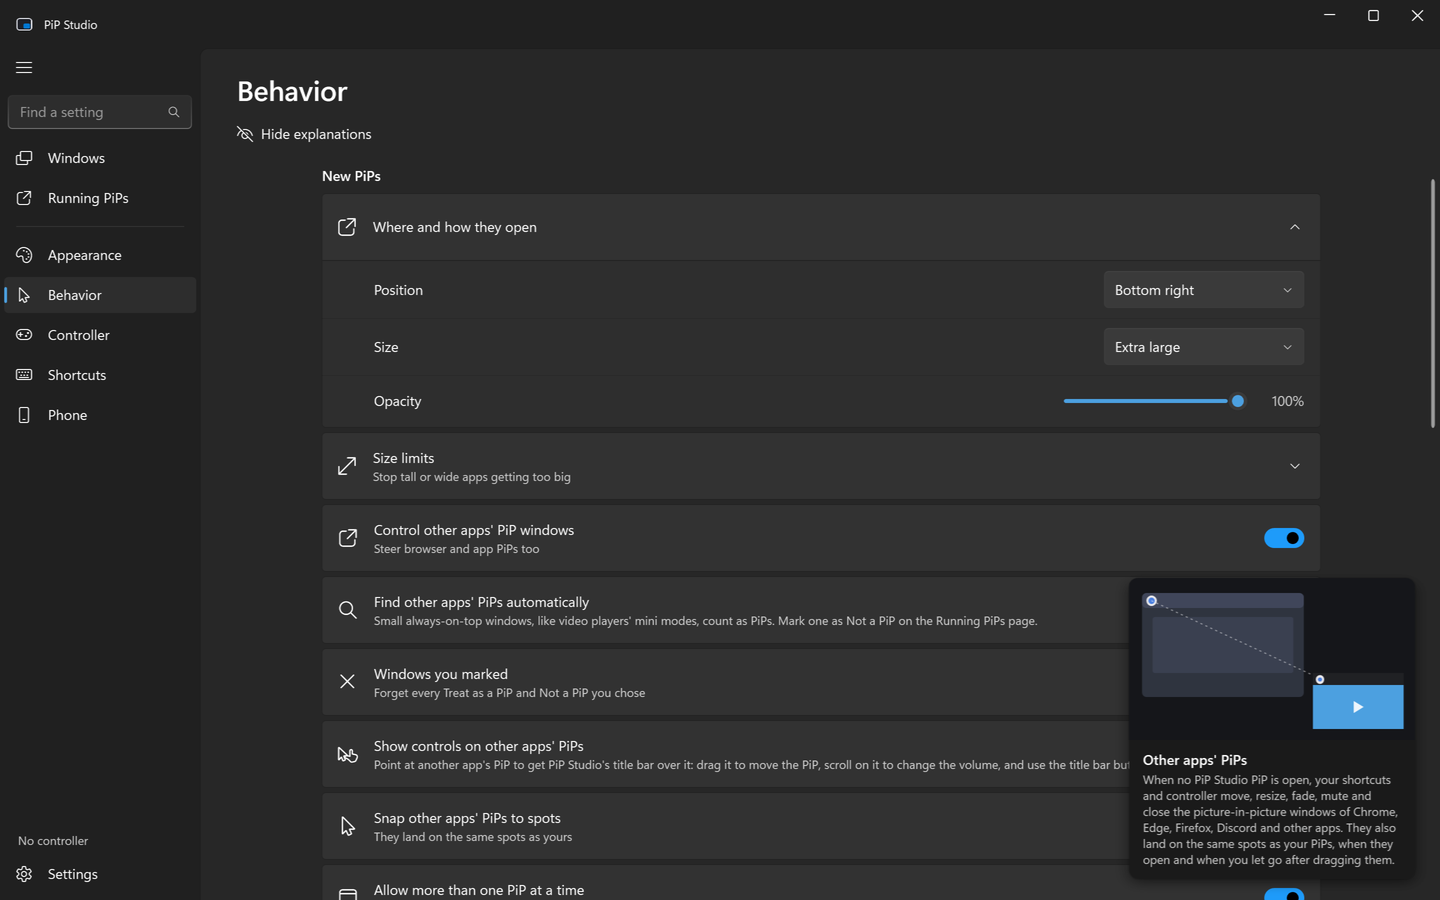
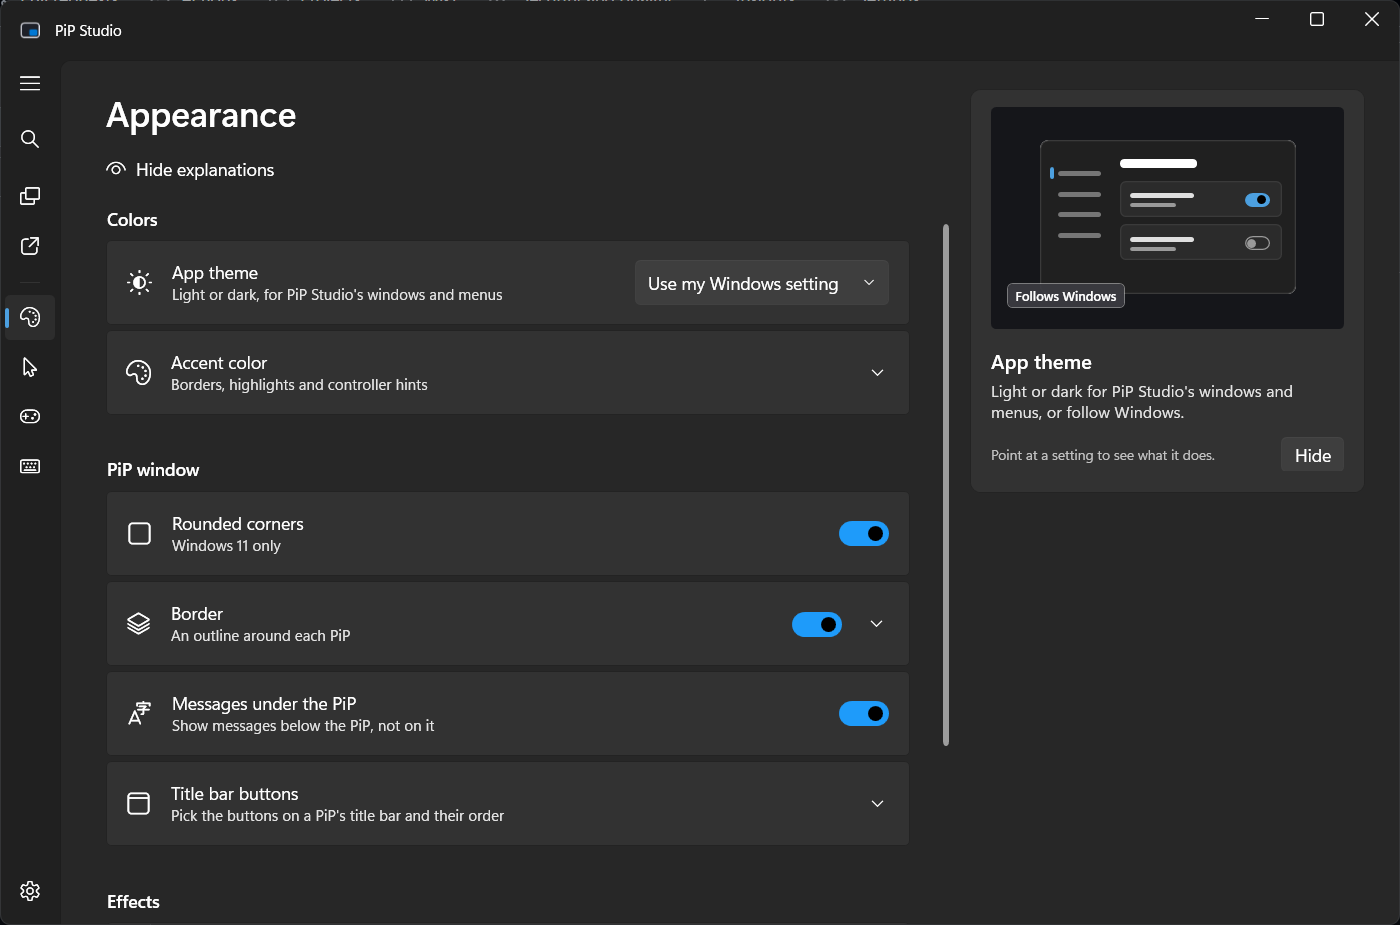
Take my screenshots back out of the README
Back to the README and screenshots as they were.

Claude-Session: https://claude.ai/code/session_01AL4fzeNduftgaGpFcMxdZH

diff --git a/README.md b/README.md
@@ -12,13 +12,6 @@
   <img src="docs/screenshots/settings-explanations.png" width="49%" alt="Settings with an animated explanation">
   <img src="docs/screenshots/controller-mode.png" width="49%" alt="Controller-friendly mode">
 </p>
-<p align="center">
-  <img src="docs/screenshots/running-pips.png" width="49%" alt="The Running PiPs page">
-  <img src="docs/screenshots/oled-theme.png" width="49%" alt="The OLED theme">
-</p>
-<p align="center">
-  <img src="docs/screenshots/phone-companion.png" width="80%" alt="The phone companion: PiP controls, more controls and the Position picker">
-</p>
 
 > **Vibecoded:** PiP Studio was built with the help of AI (Claude). It works well for me, but expect the odd rough edge, and please [report anything weird](../../issues/new/choose).
 
